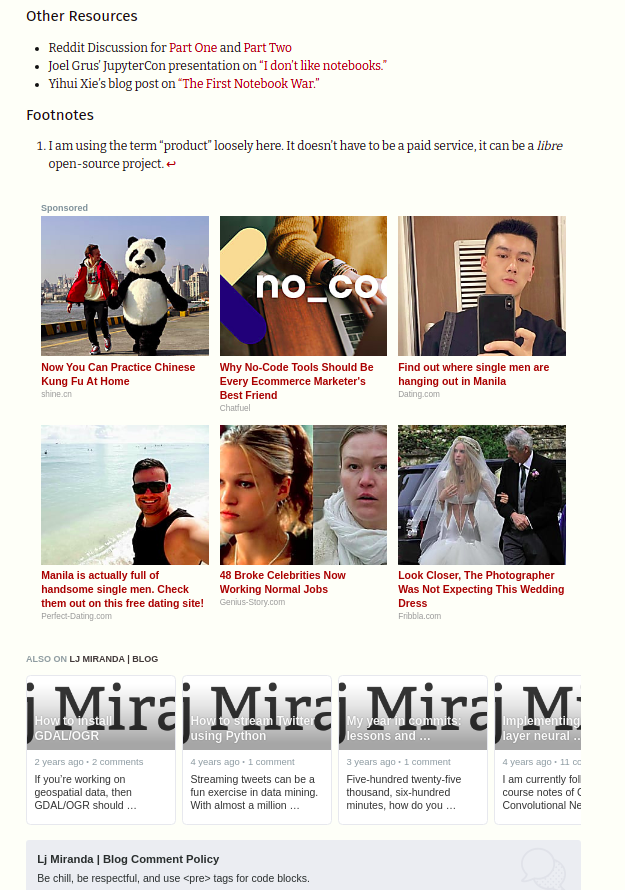
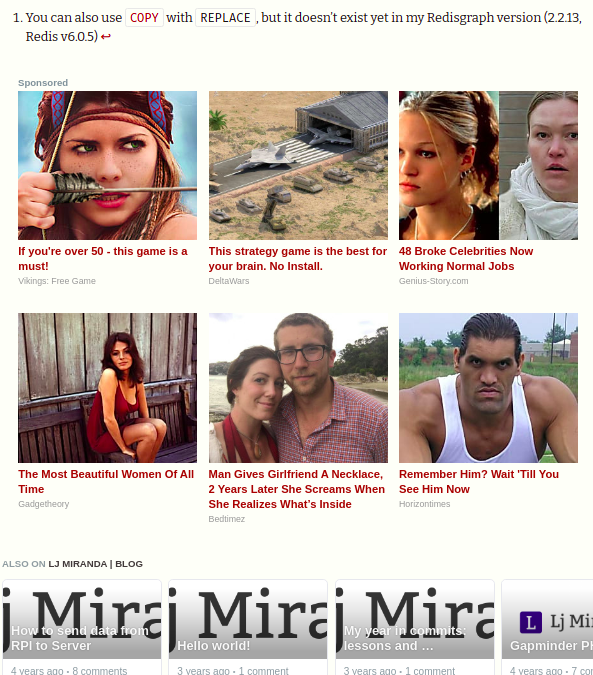
Copy excerpt to blogpost description (#213)

diff --git a/notebook/_posts/2021-03-31-migrating-from-disqus-to-utterances.md b/notebook/_posts/2021-03-31-migrating-from-disqus-to-utterances.md
@@ -11,6 +11,10 @@ description: |
     Disqus suddenly put ads to my site! Hassle. In this blogpost, I'll outline
     the steps I took when I migrated my Disqus comments into utterances--an
     open-source, ad-free, comments widget.
+excerpt: |
+    Disqus suddenly put ads to my site! Hassle. In this blogpost, I'll outline
+    the steps I took when I migrated my Disqus comments into utterances--an
+    open-source, ad-free, comments widget.
 ---
 
 ## Introduction
